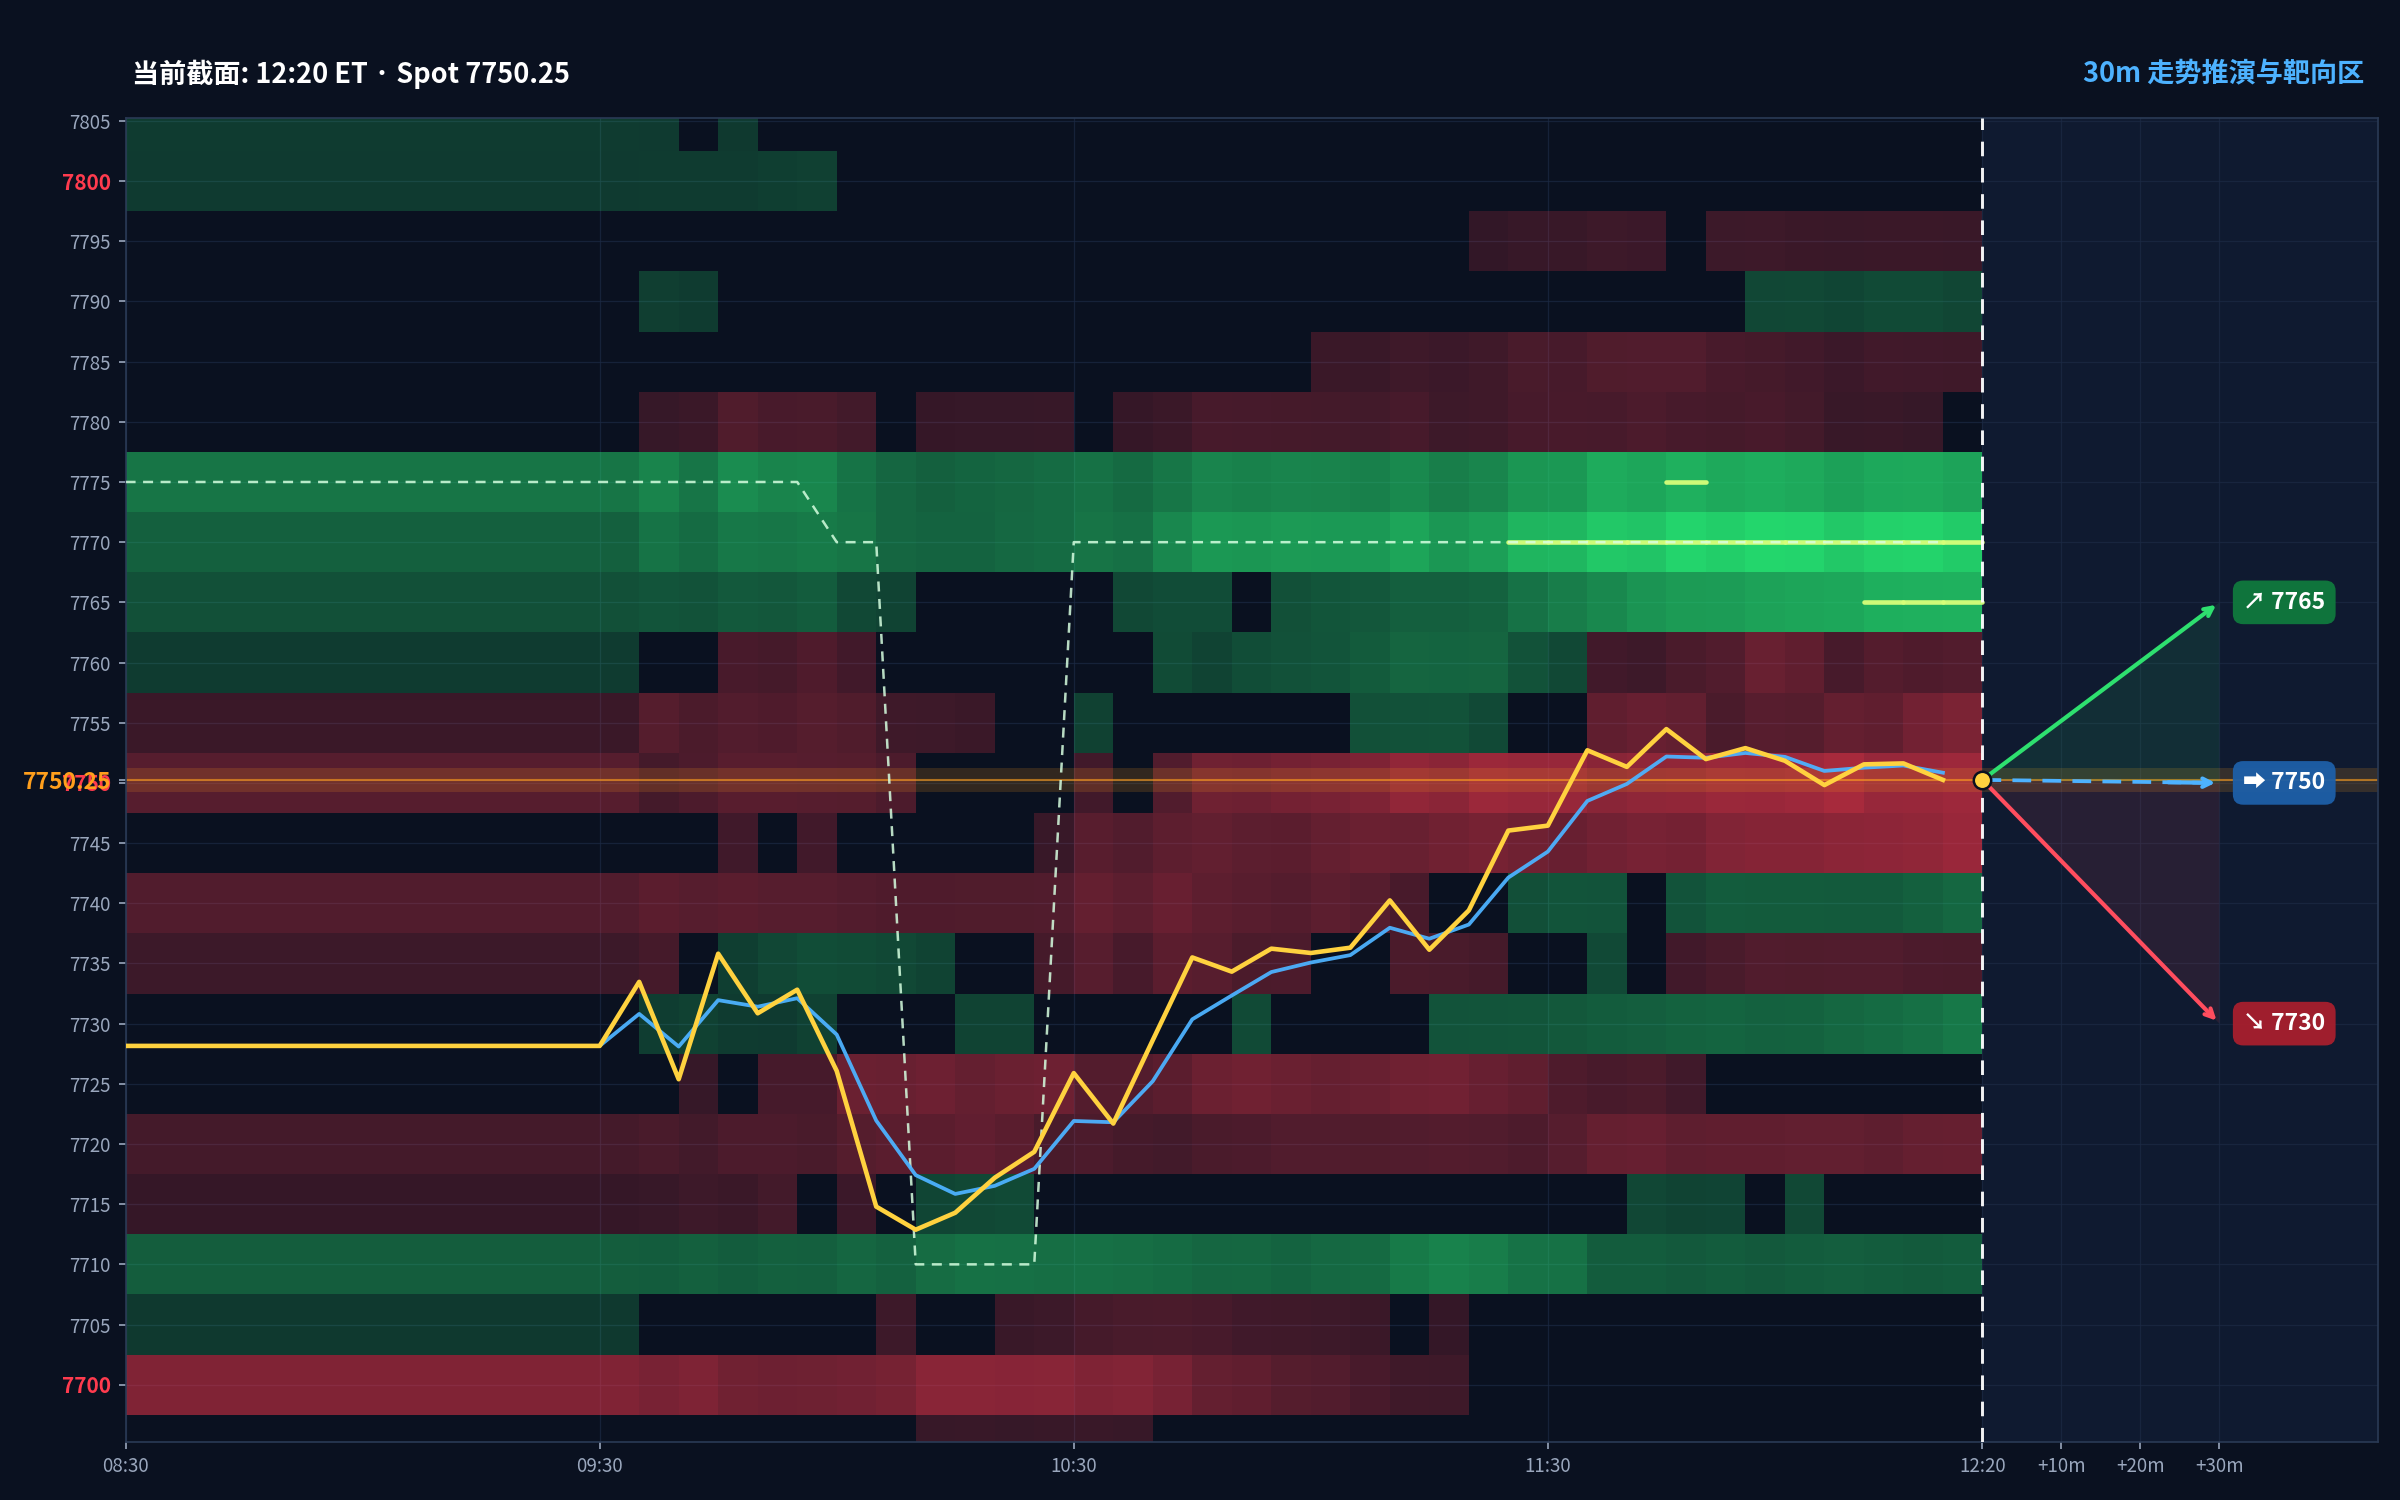
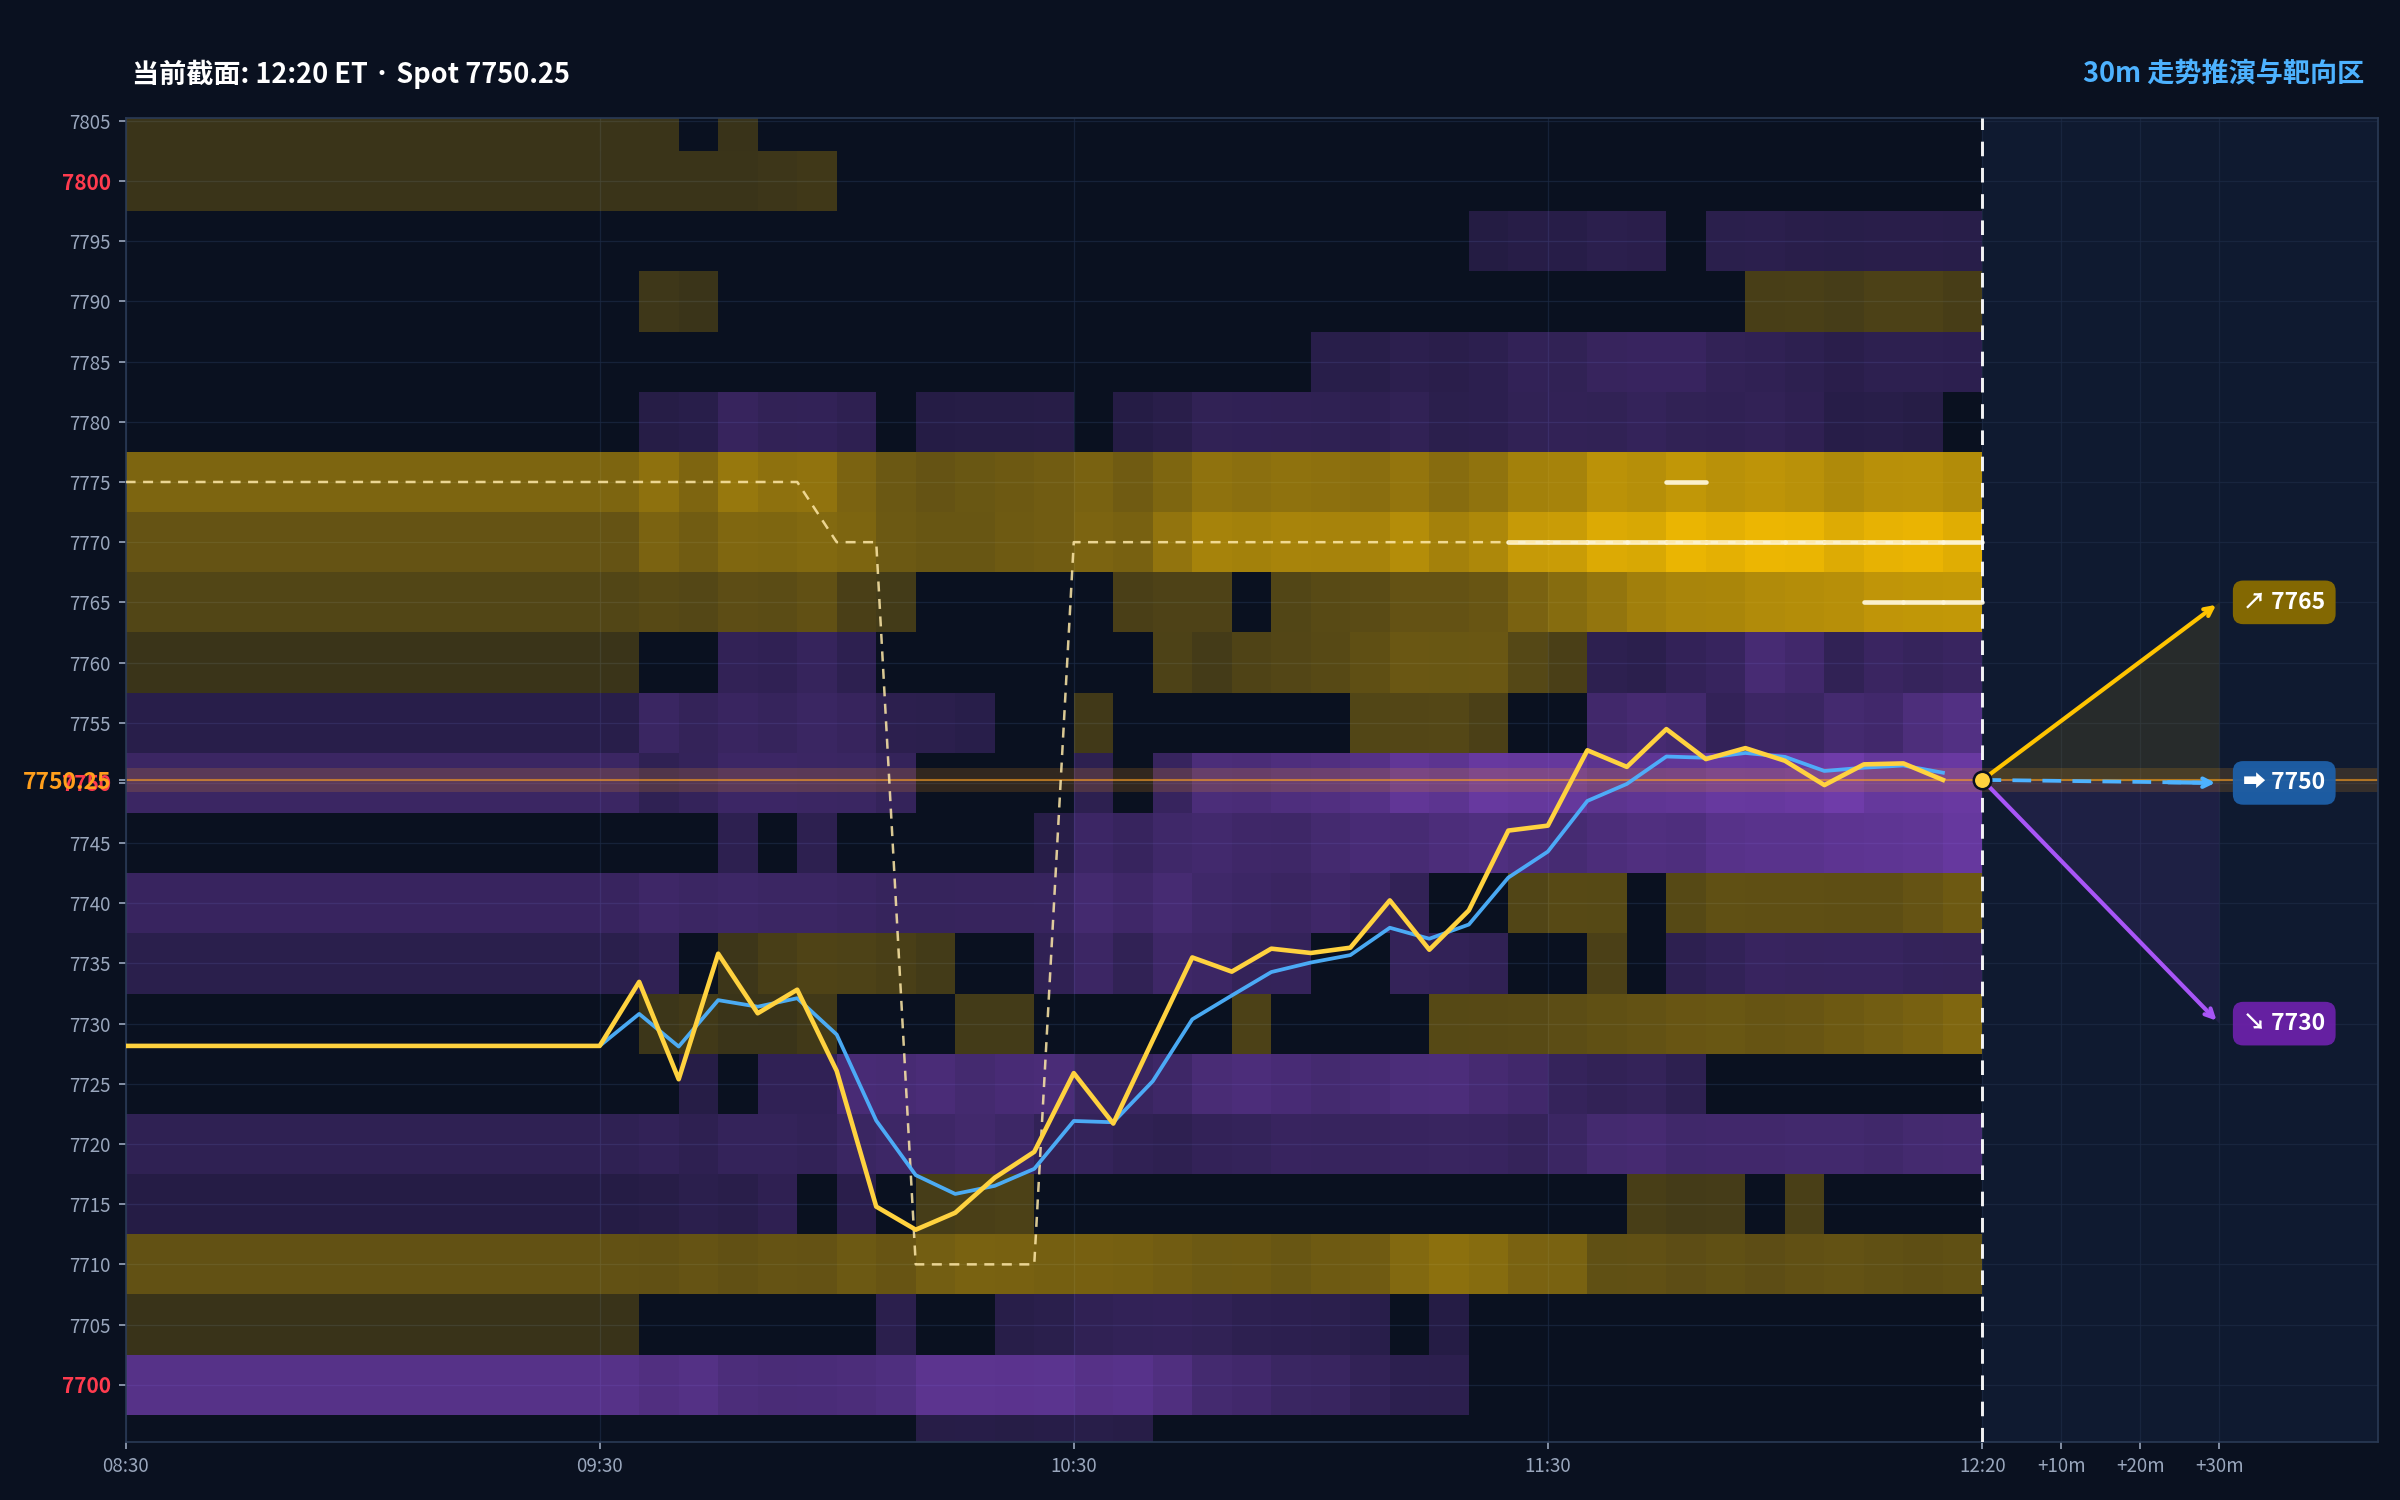
live: SPX 实时监控 2026-10-21 12:20 ET

diff --git a/live/index.html b/live/index.html
@@ -8,7 +8,7 @@
 <style>
   :root{
     --bg:#0a1120; --panel:#0f1a30; --line:#22314f; --ink:#dbe4f0; --muted:#8a97ad;
-    --green:#2ee06f; --red:#ff4d5e; --blue:#4db2ff; --yellow:#ffd23f; --orange:#ff9f1c;
+    --green:#ffc400; --red:#a855f7; --blue:#4db2ff; --yellow:#ffd23f; --orange:#ff9f1c;
   }
   *{box-sizing:border-box; margin:0; padding:0;}
   body{background:var(--bg); color:var(--ink);
